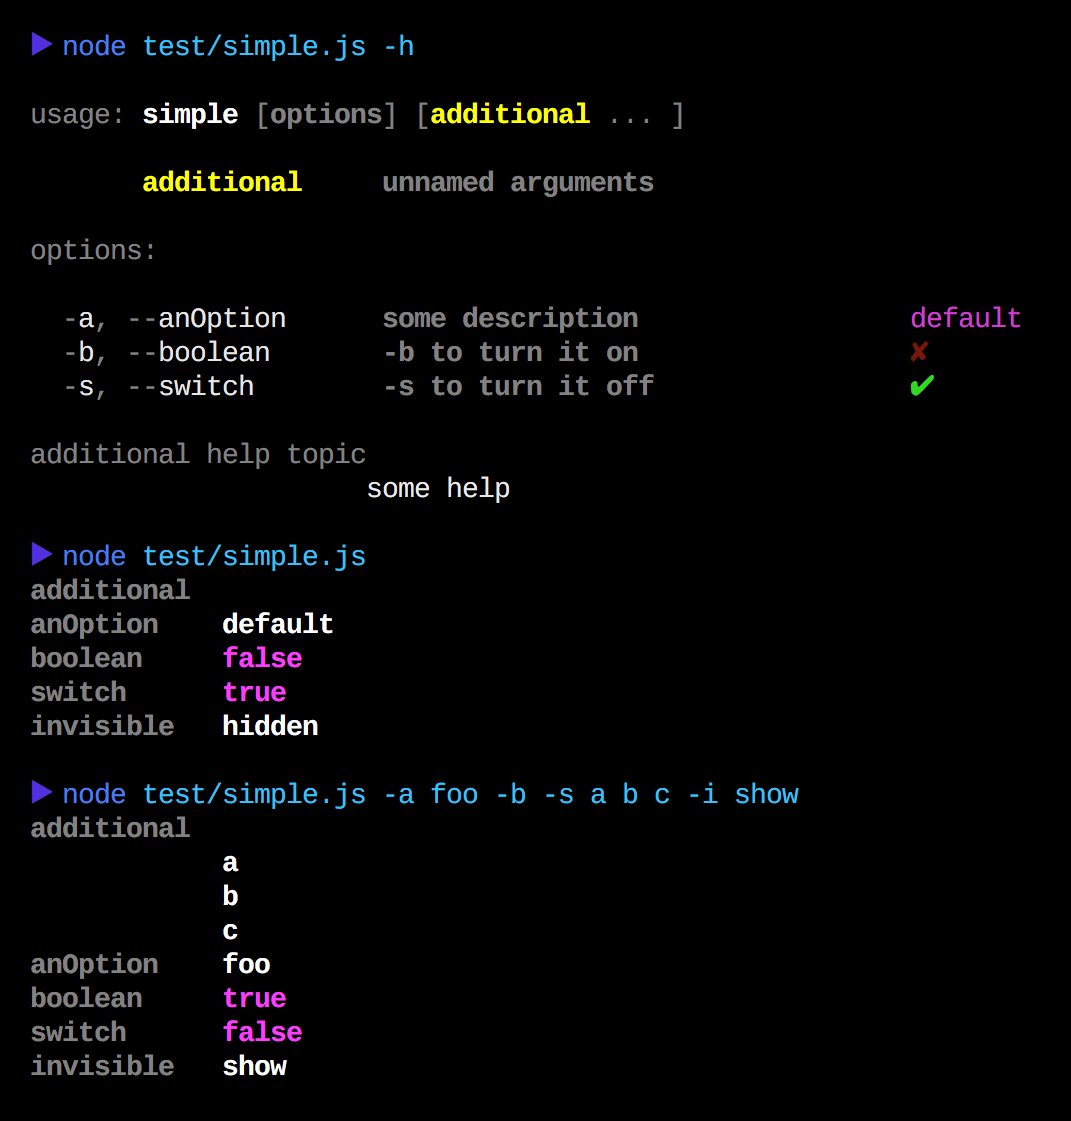
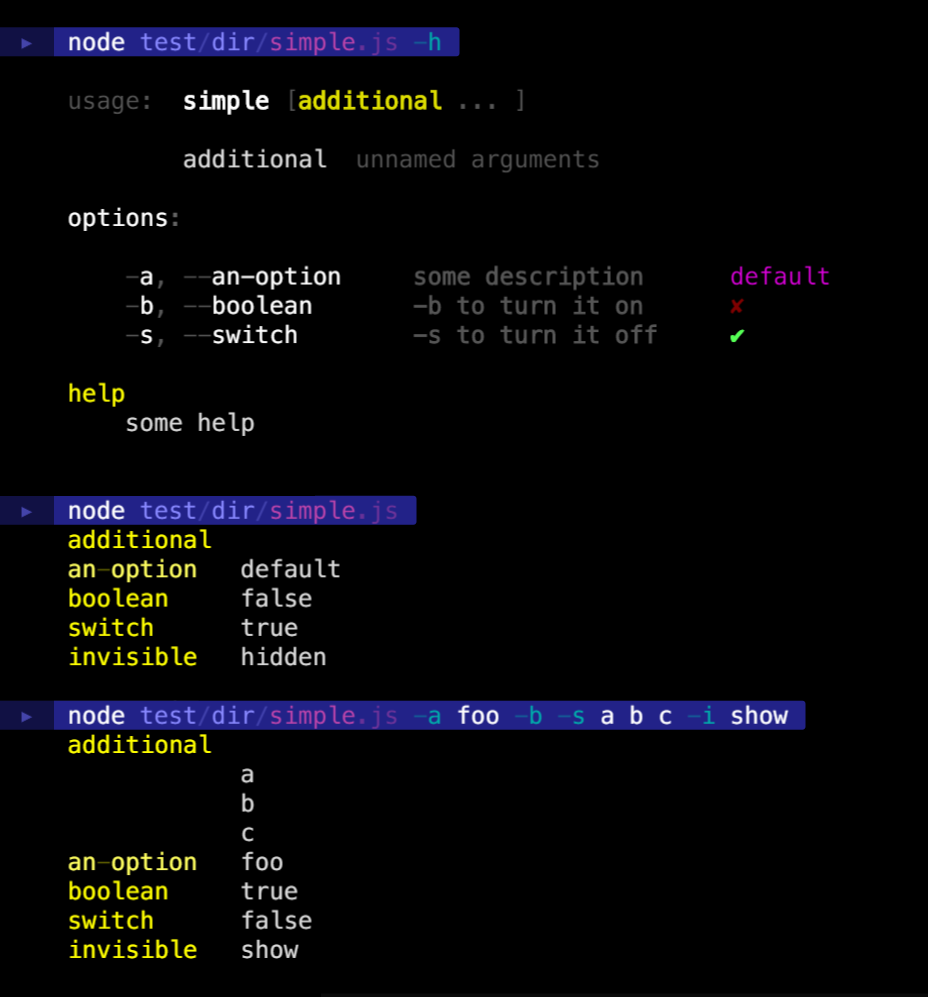
misc

diff --git a/test/dir/simple.js b/test/dir/simple.js
@@ -1,13 +1,11 @@
-(function() {
-  var args;
+// koffee 1.12.0
+var args;
 
-  args = require('../../')("\nsimple\n    additional  . ? unnamed argument  . * . = no name\n    an-option   . ? some description  . = default\n    boolean     . ? -b to turn it on  . = false\n    switch      . ? -s to turn it off . = true\n    invisible                 . = hidden\n    \nadditional help topic\n    some help\n    \nversion       1.0.0\n");
+args = require('../../')("\nsimple\n    additional  . ? unnamed arguments . **\n    an-option   . ? some description  . = default\n    boolean     . ? -b to turn it on  . = false\n    switch      . ? -s to turn it off . = true\n    invisible                         . = hidden\n    \nhelp\n    some help\n    \nversion       1.0.0\n");
 
-  console.log(require('noon').stringify(args, {
+console.log(require('noon').stringify(args, {
     colors: true
-  }));
+}));
 
-}).call(this);
-
[1 lines of base64/hex data omitted]
-//# sourceURL=C:/Users/kodi/s/karg/test/dir/simple.coffee
[1 lines of base64/hex data omitted]
+//# sourceURL=simple.coffee

diff --git a/README.md b/README.md
@@ -26,12 +26,12 @@ args = require('karg') """
 
 scriptname
     additional  . ? unnamed arguments . **
-    anOption    . ? some description  . = default
+    an-option   . ? some description  . = default
     boolean     . ? -b to turn it on  . = false
     switch      . ? -s to turn it off . = true
     invisible                         . = hidden
     
-additional help topic
+help
     some help
     
 version       1.0.0
